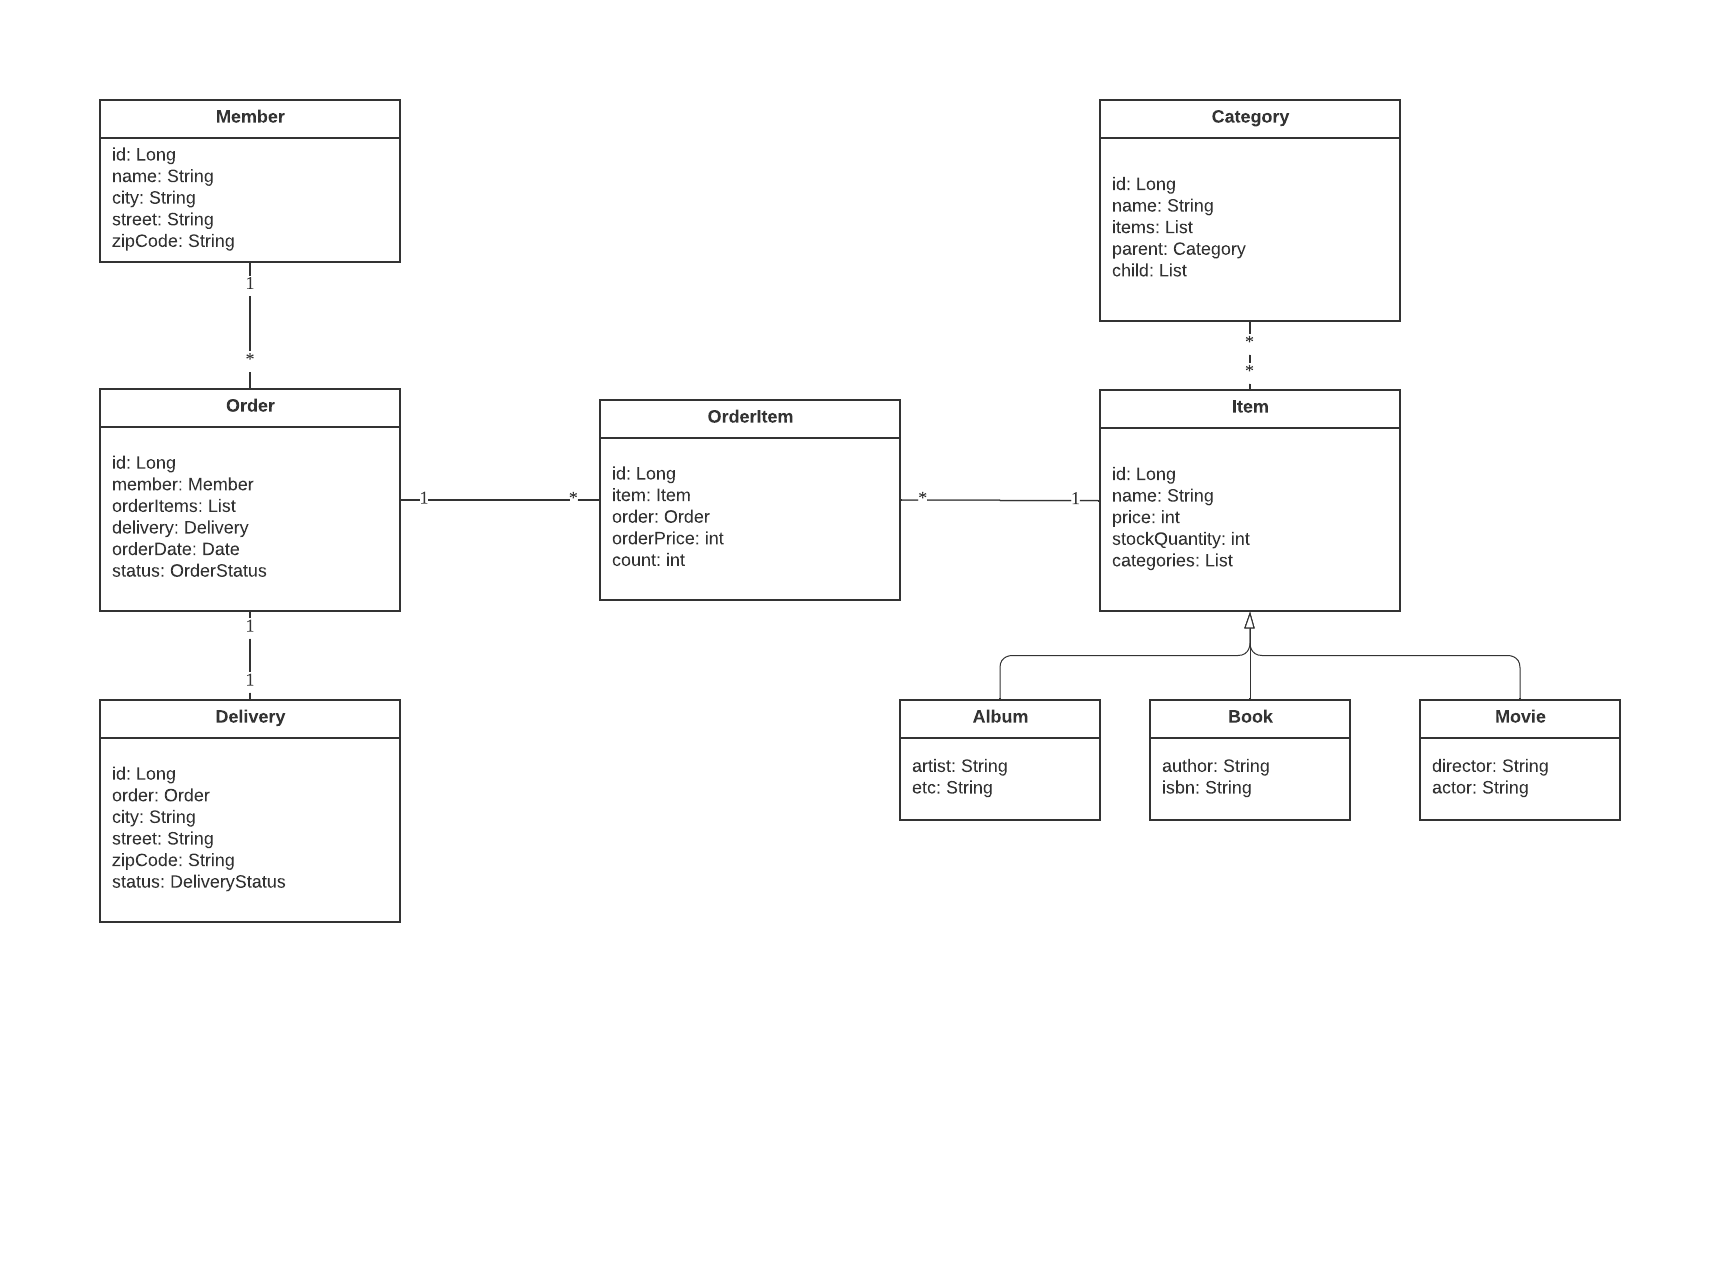
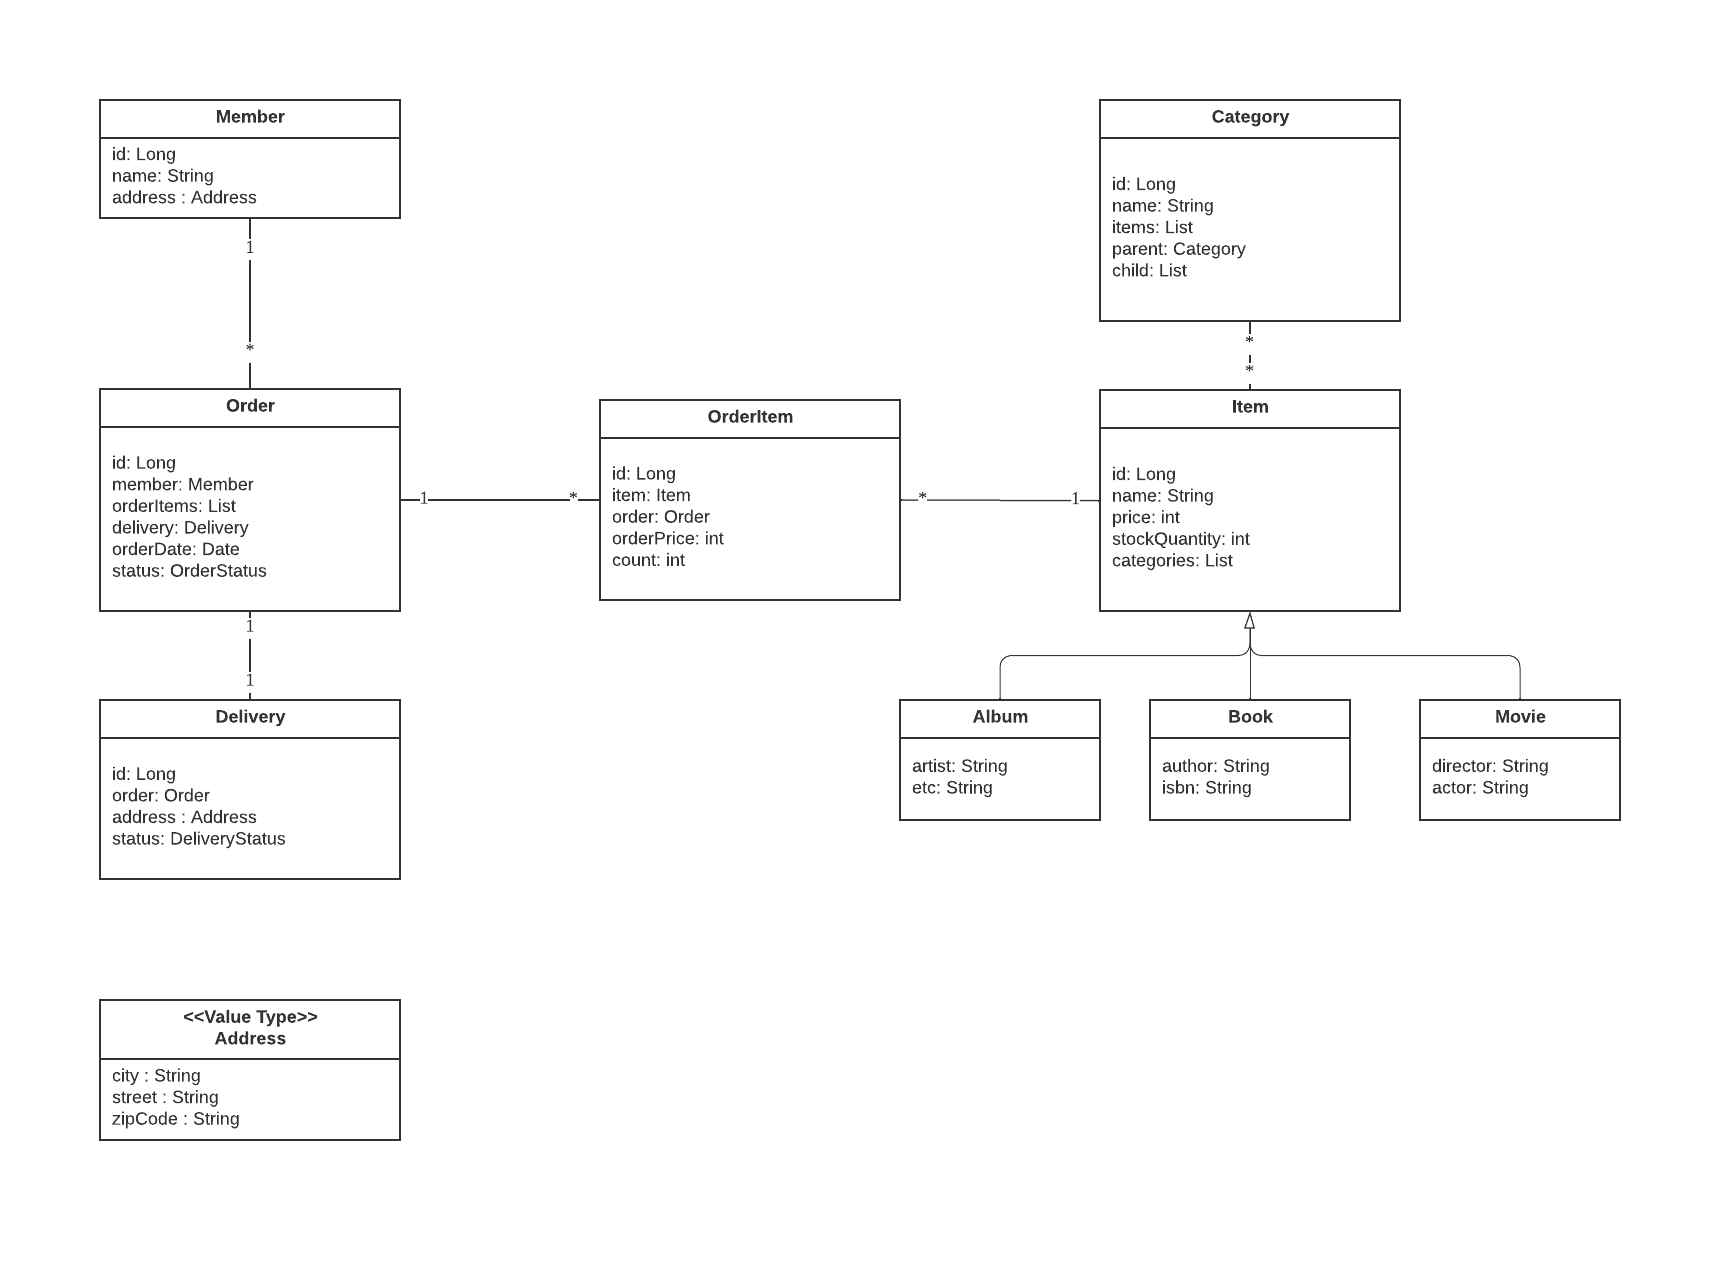
embedded type 적용

diff --git a/jpashop/src/main/java/jpabook/jpashop/domain/Delivery.java b/jpashop/src/main/java/jpabook/jpashop/domain/Delivery.java
@@ -3,6 +3,7 @@ package jpabook.jpashop.domain;
 import static javax.persistence.FetchType.LAZY;
 
 import javax.persistence.Column;
+import javax.persistence.Embedded;
 import javax.persistence.Entity;
 import javax.persistence.EnumType;
 import javax.persistence.Enumerated;
@@ -19,10 +20,8 @@ public class Delivery extends BaseEntity {
     private Long id;
     @OneToOne(mappedBy = "delivery", fetch = LAZY)
     private Order order;
-    private String city;
-    private String street;
-    @Column(name = "zip_code")
-    private String zipCode;
+    @Embedded
+    Address address;
     @Enumerated(EnumType.STRING)
     private DeliveryStatus status;
 
@@ -30,9 +29,7 @@ public class Delivery extends BaseEntity {
     }
 
     public Delivery(String city, String street, String zipCode, DeliveryStatus status) {
-        this.city = city;
-        this.street = street;
-        this.zipCode = zipCode;
+        this.address = new Address(city, street, zipCode);
         this.status = status;
     }
 
@@ -57,28 +54,12 @@ public class Delivery extends BaseEntity {
         this.order = order;
     }
 
-    public String getCity() {
-        return city;
+    public Address getAddress() {
+        return address;
     }
 
-    public void setCity(String city) {
-        this.city = city;
-    }
-
-    public String getStreet() {
-        return street;
-    }
-
-    public void setStreet(String street) {
-        this.street = street;
-    }
-
-    public String getZipCode() {
-        return zipCode;
-    }
-
-    public void setZipCode(String zipCode) {
-        this.zipCode = zipCode;
+    public void setAddress(Address address) {
+        this.address = address;
     }
 
     public DeliveryStatus getStatus() {

diff --git a/jpashop/src/main/java/jpabook/jpashop/domain/Member.java b/jpashop/src/main/java/jpabook/jpashop/domain/Member.java
@@ -1,6 +1,7 @@
 package jpabook.jpashop.domain;
 
 import javax.persistence.Column;
+import javax.persistence.Embedded;
 import javax.persistence.Entity;
 import javax.persistence.GeneratedValue;
 import javax.persistence.Id;
@@ -13,10 +14,8 @@ public class Member extends BaseEntity {
     @Column(name = "member_id")
     private Long id;
     private String name;
-    private String city;
-    private String street;
-    @Column(name = "zip_code")
-    private String zipCode;
+    @Embedded
+    Address address;
 //    @OneToMany(mappedBy = "member")
 //    private List<Order> orders = new ArrayList<>();
 
@@ -26,9 +25,7 @@ public class Member extends BaseEntity {
 
     public Member(String name, String city, String street, String zipCode) {
         this.name = name;
-        this.city = city;
-        this.street = street;
-        this.zipCode = zipCode;
+        this.address = new Address(city, street, zipCode);
     }
 
     public Long getId() {
@@ -47,27 +44,11 @@ public class Member extends BaseEntity {
         this.name = name;
     }
 
-    public String getCity() {
-        return city;
+    public Address getAddress() {
+        return address;
     }
 
-    public void setCity(String city) {
-        this.city = city;
-    }
-
-    public String getStreet() {
-        return street;
-    }
-
-    public void setStreet(String street) {
-        this.street = street;
-    }
-
-    public String getZipCode() {
-        return zipCode;
-    }
-
-    public void setZipCode(String zipCode) {
-        this.zipCode = zipCode;
+    public void setAddress(Address address) {
+        this.address = address;
     }
 }

diff --git a/jpashop/src/main/java/jpabook/jpashop/domain/Address.java b/jpashop/src/main/java/jpabook/jpashop/domain/Address.java
@@ -1,0 +1,61 @@
+package jpabook.jpashop.domain;
+
+import java.util.Objects;
+import javax.persistence.Column;
+import javax.persistence.Embeddable;
+import sun.security.util.Length;
+
+@Embeddable
+public class Address {
+
+    @Column(length =  10)
+    private String city;
+    @Column(length =  20)
+    private String street;
+    @Column(name = "zip_code", length = 5)
+    private String zipCode;
+
+    public Address() {
+    }
+
+    public Address(String city, String street, String zipCode) {
+        this.city = city;
+        this.street = street;
+        this.zipCode = zipCode;
+    }
+
+    public String fullAddress() {
+        return getCity() + " " + getStreet() + " " + getZipCode();
+    }
+
+    public String getCity() {
+        return city;
+    }
+
+    public String getStreet() {
+        return street;
+    }
+
+    public String getZipCode() {
+        return zipCode;
+    }
+
+    @Override
+    public boolean equals(Object o) {
+        if (this == o) {
+            return true;
+        }
+        if (o == null || getClass() != o.getClass()) {
+            return false;
+        }
+        Address address = (Address) o;
+        return Objects.equals(getCity(), address.getCity()) && Objects.equals(
+                getStreet(), address.getStreet()) && Objects.equals(getZipCode(),
+                address.getZipCode());
+    }
+
+    @Override
+    public int hashCode() {
+        return Objects.hash(getCity(), getStreet(), getZipCode());
+    }
+}

diff --git a/jpashop/src/main/java/jpabook/jpashop/JpaMain.java b/jpashop/src/main/java/jpabook/jpashop/JpaMain.java
@@ -90,9 +90,9 @@ public class JpaMain {
             em.persist(orderItem3);
 
             em.flush();
-            Order findOrder = em.find(Order.class, order.getId());
-
             em.clear();
+            
+            Order findOrder = em.find(Order.class, order.getId());
             // orphanRemoval
             findOrder.getOrderItems().remove(0);
             // cascade
